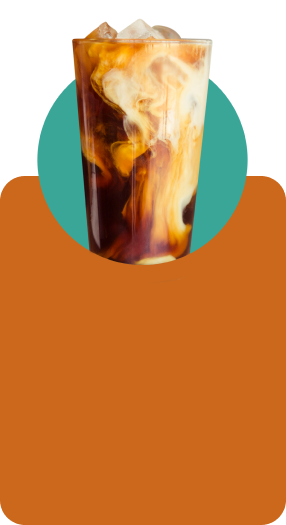
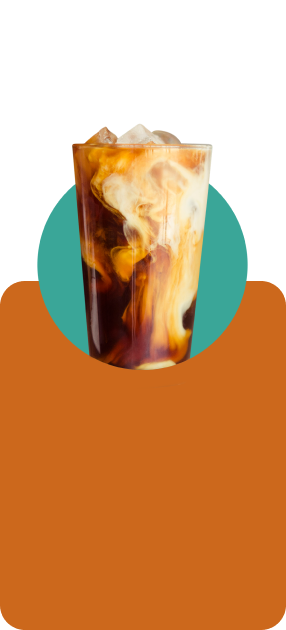
teste

diff --git a/estilo.css b/estilo.css
@@ -11,6 +11,7 @@ body{
 
 h1{
     padding-top: 50px;
+    margin-top: 20px;
 }
 
 .cabecalho{
@@ -80,13 +81,15 @@ h1{
 .Iced-Coffe{
     background-image: url(img/Iced-Coffe.png);
     width: 285px;
-    padding-bottom: 30px;
+    padding-bottom: 135px;
     text-align: center;
     flex-wrap: wrap;
     display: flex;
     align-items: end;
     height: 500px;
     justify-content: space-between;
+    color: #FFF2E3;
+    background-repeat: no-repeat;
 }
 
 .Frappuccino{
@@ -100,6 +103,7 @@ h1{
     align-items: end;
     height: 495px;
     justify-content: space-between;
+    background-repeat: no-repeat;
 }
 
 .Macarons{
@@ -112,6 +116,7 @@ h1{
     align-items: end;
     height: 500px;
     justify-content: space-between;
+    background-repeat: no-repeat;
 }
 
 .Pankecat{
@@ -124,6 +129,7 @@ h1{
     align-items: end;
     height: 500px;
     justify-content: space-between;
+    background-repeat: no-repeat;
 }
 
 .coluna p{

diff --git a/index.html b/index.html
@@ -44,7 +44,7 @@
             <div class="linha">
                 <img src="img/seta-esquerda.png" alt="seta esquerda">
                 <div class="Iced-Coffe">
-                    <div>
+                    <div style="margin-bottom: 20px;">
                         <h1>Iced Coffe</h1>
                         <p>
                             Uma mistura refrescante de <br>
